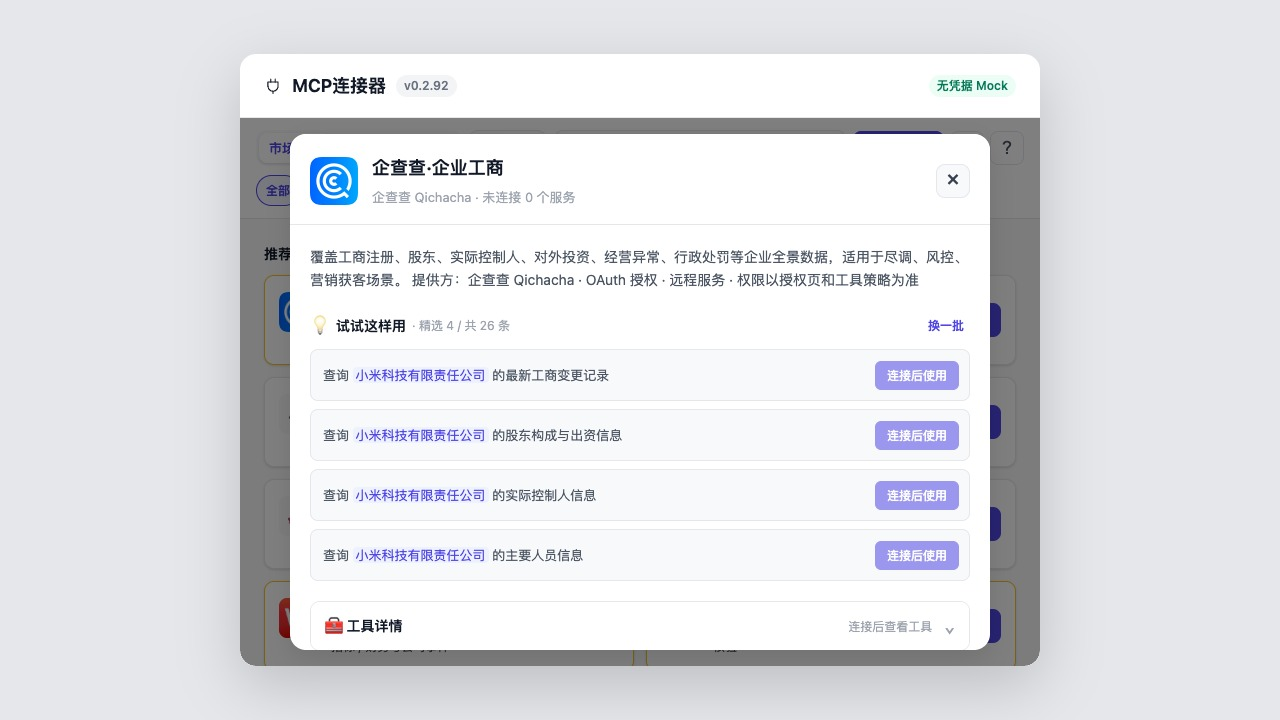
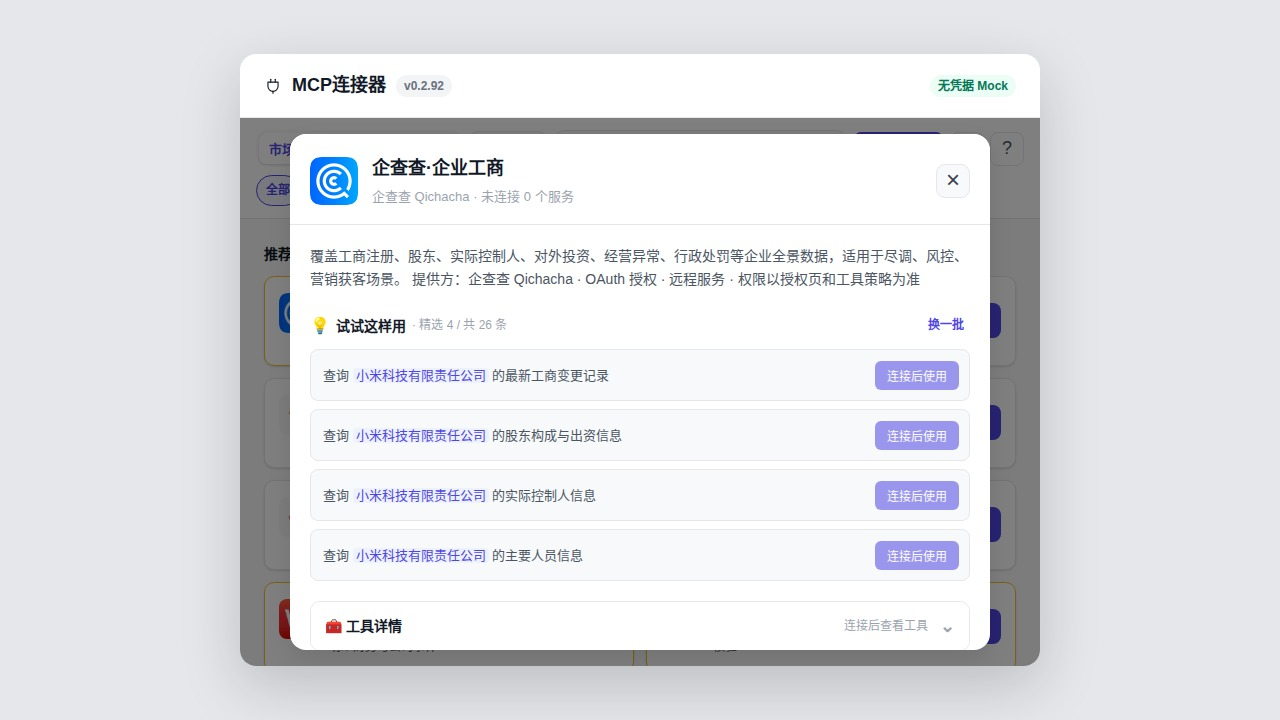
QMCP-2014 docs: refresh product media and generated versions

diff --git a/README.en.md b/README.en.md
@@ -114,7 +114,7 @@ As of 2026-10-24, the public Registry publishes 112 connector descriptors. After
 | Connection diagnostics and last-success cache |  |
 | ![Connection diagnostics](https://raw.githubusercontent.com/duhu2000/dsh-mcp-connector/main/docs/screenshots/en/07-connection-diagnostics.png) |  |
 
-<!-- generated:media -->English UI screenshots and GIF were captured from v0.2.92 (2026-11-01), using the credential-free Mock harness. Provider content retains its original language. They demonstrate UI, not real business acceptance; counts are fixtures. See [asset provenance](docs/screenshots/README.md).<!-- /generated:media -->
+<!-- generated:media -->English UI screenshots and GIF were captured from v0.2.92 (2026-11-02), using the credential-free Mock harness. Provider content retains its original language. They demonstrate UI, not real business acceptance; counts are fixtures. See [asset provenance](docs/screenshots/README.md).<!-- /generated:media -->
 
 ## Installation
 

diff --git a/README.md b/README.md
@@ -128,7 +128,7 @@ Desktop 需要完全退出并重新启动应用；Web 需要停止原 `dsh web` 
 | 连接诊断与最后成功缓存 |  |
 | ![连接诊断](https://raw.githubusercontent.com/duhu2000/dsh-mcp-connector/main/docs/screenshots/07-connection-diagnostics.png) |  |
 
-<!-- generated:media -->截图与 GIF 采集自 v0.2.92（2026-11-01）无凭据 Mock 页面，展示界面而非真实业务验收；市场数量是测试夹具。来源与更新方法见 [素材说明](docs/screenshots/README.md)。<!-- /generated:media -->
+<!-- generated:media -->截图与 GIF 采集自 v0.2.92（2026-11-02）无凭据 Mock 页面，展示界面而非真实业务验收；市场数量是测试夹具。来源与更新方法见 [素材说明](docs/screenshots/README.md)。<!-- /generated:media -->
 
 ## 安装
 

diff --git a/docs/screenshots/README.md b/docs/screenshots/README.md
@@ -1,6 +1,6 @@
 # 产品截图与演示的来源及更新
 
-<!-- generated:media -->本组 8 张截图和 GIF 均从 v0.2.92 于 2026-11-01 重新采集，未修改截图中的版本文字。<!-- /generated:media -->
+<!-- generated:media -->本组 8 张截图和 GIF 均从 v0.2.92 于 2026-11-02 重新采集，未修改截图中的版本文字。<!-- /generated:media -->
 
 前七张素材由真实产品 UI 的无凭据 Mock harness 渲染：1280×720 浏览器视口、800px 产品面板、桌面两列卡片。顶部保留“无凭据 Mock”标识；目录数、连接数与工具数是演示夹具，不代表生产统计或真实授权、业务验收。不会读取用户 profile、调用服务商或上传业务数据。
 
